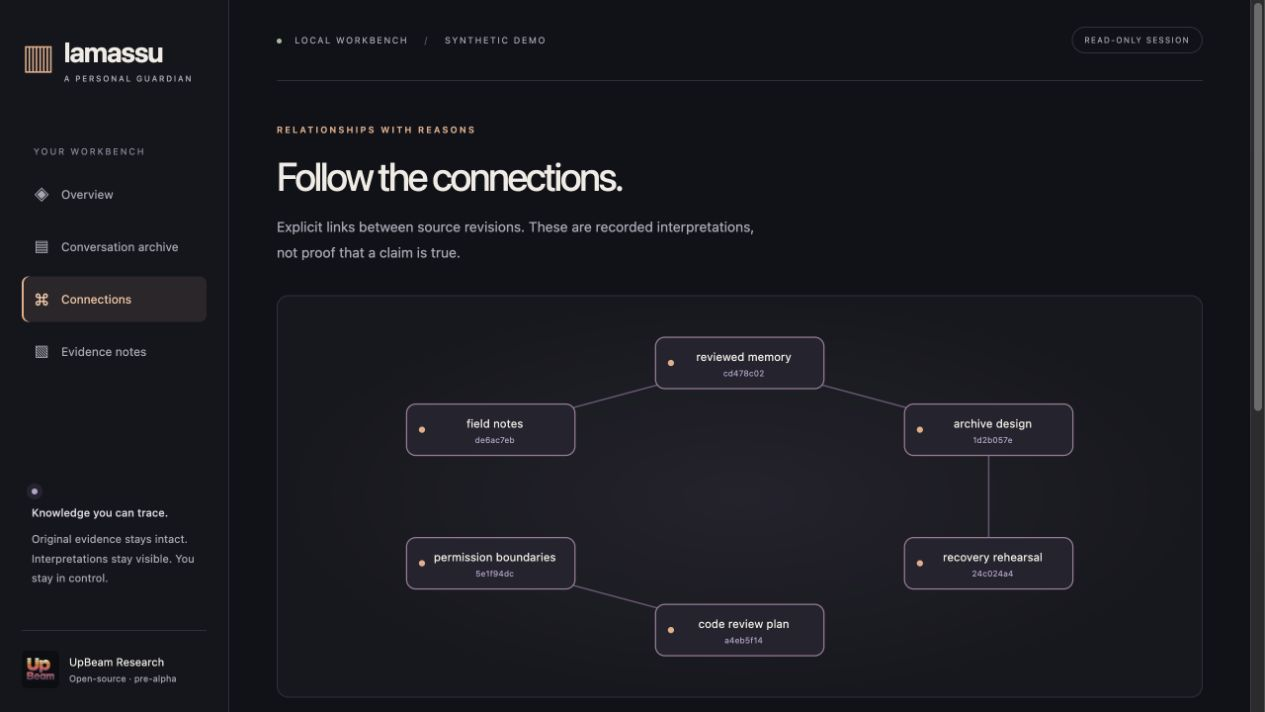
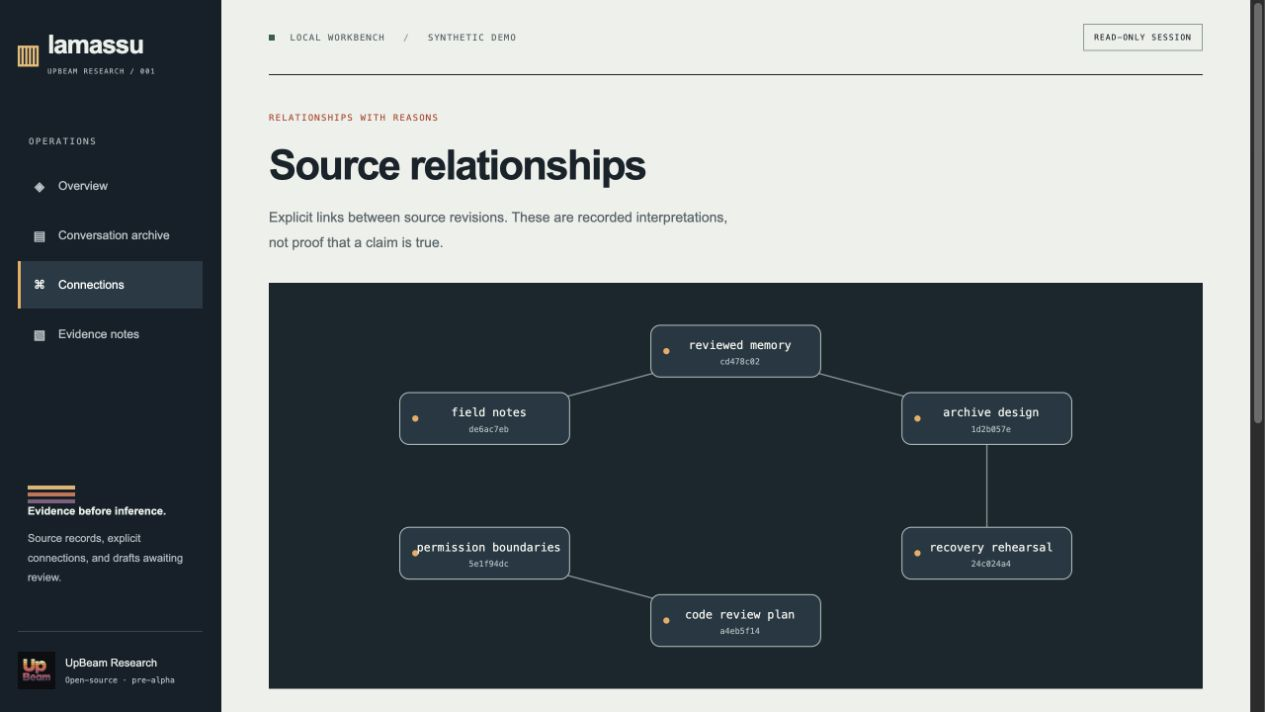
Give the workbench a research-instrument identity and direct operational copy

diff --git a/lamassu/web/style.css b/lamassu/web/style.css
@@ -1,9 +1,229 @@
-:root{--bg:#111218;--panel:#1a1b23;--line:#30303c;--ink:#f1ece4;--muted:#aaa7b3;--accent:#e9ad86;--purple:#b3a2cb;--green:#a6baa2;--sidebar:232px;font-family:Inter,ui-sans-serif,-apple-system,BlinkMacSystemFont,"Segoe UI",sans-serif;color:var(--ink);background:var(--bg);font-synthesis:none}
-*{box-sizing:border-box}body{margin:0}button,input,textarea,select{font:inherit}button{cursor:pointer}button:focus-visible,a:focus-visible{outline:2px solid var(--accent);outline-offset:5px}button:disabled{opacity:.5;cursor:wait}a{color:inherit}button{color:inherit}input,textarea,select{color:var(--ink);background:#14151c;border:1px solid var(--line);border-radius:8px;padding:14px;min-width:0}input:focus,textarea:focus,select:focus{outline:1px solid var(--accent);border-color:var(--accent)}input::placeholder,textarea::placeholder{color:#92909e}.hidden{display:none!important}.shell{display:flex;min-height:100vh}.sidebar{width:var(--sidebar);flex:none;position:fixed;inset:0 auto 0 0;border-right:1px solid var(--line);padding:36px 22px 24px;display:flex;flex-direction:column;background:#15161c}.brand{display:flex;align-items:center;gap:11px;text-decoration:none;font-size:28px;letter-spacing:-1.1px;font-weight:650;margin-bottom:64px}.brand-glyph{font-size:38px;color:var(--accent);font-weight:400;line-height:1}.brand-caption{display:block;font-size:8px;letter-spacing:1.65px;color:var(--muted);margin-top:6px;font-weight:500}.sidebar-label{font-size:9px;letter-spacing:1.8px;color:#8d899b;margin:0 12px 15px}nav{display:grid;gap:7px}.nav-item{background:transparent;border:0;border-radius:7px;padding:13px 10px;text-align:left;font-size:12px;color:var(--muted);display:flex;align-items:center;gap:10px}.nav-item span{font-size:17px;width:20px;text-align:center}.nav-item:hover{background:#20212b;color:var(--ink)}.nav-item.active{background:#2c2629;color:#f4c3a3;box-shadow:inset 2px 0 var(--accent)}.sidebar-note{margin:auto 10px 35px;padding-top:50px;font-size:11px;line-height:1.8;color:var(--muted)}.sidebar-note strong{display:block;color:#d9d3df;font-weight:500;margin-top:9px}.sidebar-note p{margin:7px 0}.small-orb{display:block;width:6px;height:6px;border-radius:50%;background:var(--purple);box-shadow:0 0 0 5px #252330}.steward{border-top:1px solid var(--line);padding-top:20px;display:flex;align-items:center;gap:10px;font-size:11px}.steward img{width:38px;height:38px;border-radius:5px;object-fit:cover}.steward span{display:block;font-size:9px;color:var(--muted);margin-top:5px}main{margin-left:var(--sidebar);padding:0 48px;flex:1;min-width:0;max-width:1700px}.topbar{height:82px;border-bottom:1px solid var(--line);display:flex;align-items:center;justify-content:space-between;font-size:9px;letter-spacing:1.5px;color:var(--muted);gap:15px}.status-dot{display:inline-block;width:5px;height:5px;background:var(--green);border-radius:50%;margin-right:9px}.divider{margin:0 12px;color:#5e5a6a}.read-only{border:1px solid var(--line);border-radius:25px;padding:8px 12px;font-size:8px;letter-spacing:1.2px;white-space:nowrap}.view{padding-top:44px}.eyebrow,.section-kicker{font-size:9px;letter-spacing:2px;font-weight:600;color:var(--accent)}h1{font-size:clamp(40px,4.5vw,68px);line-height:1.08;font-weight:450;letter-spacing:-2.5px;margin:21px 0}h1 span{color:var(--accent)}.intro{font-size:14px;line-height:1.85;color:var(--muted);margin:0 0 30px}.overview-grid{display:grid;grid-template-columns:1.55fr 1fr;gap:20px;margin-top:28px}.search-panel{background:var(--panel);border:1px solid var(--line);border-radius:12px;padding:28px}.search-panel h2{font-size:27px;letter-spacing:-.8px;font-weight:450;margin:17px 0 9px}.search-panel p{color:var(--muted);font-size:12px;line-height:1.8;margin:0 0 23px}.search-form{display:flex;background:#111218;border:1px solid #48404a;border-radius:7px;padding:5px;gap:5px}.search-form input{border:0;background:transparent;padding:11px 9px;font-size:12px;flex:1}.search-form input:focus{outline:none}.search-form:focus-within{outline:1px solid var(--accent)}.search-form button{background:var(--accent);border:0;border-radius:5px;width:39px;flex:none;color:#251f22;font-size:22px}.chips{display:flex;gap:7px;margin-top:15px;flex-wrap:wrap}.chips button{font-size:9px;color:#bcb5c4;background:transparent;border:1px solid #38343f;border-radius:20px;padding:6px 9px}.chips button:hover{border-color:var(--accent);color:var(--accent)}.principle-panel{border:1px solid #3a3340;border-radius:12px;padding:25px 26px;position:relative;overflow:hidden;background:radial-gradient(ellipse at top right,#302739 0,transparent 75%)}.principle-panel .section-kicker{line-height:1.8;letter-spacing:2px;margin-top:11px;color:#d2c2e4}.principle-panel p{font-size:11px;line-height:1.8;color:var(--muted)}.orbit{width:112px;height:90px;position:relative;margin-left:auto;border:1px solid #60516e;border-radius:50%;transform:rotate(-25deg)}.orbit:before{content:"";position:absolute;inset:11px -9px;border:1px solid #443c52;border-radius:50%;transform:rotate(75deg)}.orbit-center{position:absolute;inset:0;display:grid;place-items:center;color:var(--accent);font-size:39px;transform:rotate(25deg)}.orbit-point{position:absolute;background:var(--accent);width:5px;height:5px;border-radius:50%}.point-one{left:2px;top:23px}.point-two{right:4px;bottom:18px}.point-three{top:0;right:36px;background:var(--purple)}.stats{display:grid;grid-template-columns:repeat(4,1fr);border-bottom:1px solid var(--line);margin:22px 0 36px;padding:20px 0 24px}.stat{padding:0 21px;border-right:1px solid var(--line)}.stat:first-child{padding-left:0}.stat:last-child{border:0}.stat strong{font-size:29px;letter-spacing:-1px;font-weight:450}.stat span{display:block;color:var(--muted);font-size:10px;margin-top:8px}.section-heading{display:flex;justify-content:space-between;align-items:center;gap:15px;margin:0 0 17px}.section-heading h2{font-size:17px;letter-spacing:-.4px;font-weight:500;margin:0}.section-heading>span{font-size:8px;letter-spacing:1.5px;color:#898593}.layers{display:grid;grid-template-columns:repeat(3,1fr);gap:18px;margin-bottom:34px}.layers article{border:1px solid var(--line);border-radius:9px;padding:22px 20px;position:relative}.layer-number{font-size:8px;letter-spacing:1.4px;color:var(--accent)}.layers article:nth-child(2) .layer-number{color:var(--purple)}.layers article:nth-child(3) .layer-number{color:var(--green)}.layers h3{font-size:15px;font-weight:500;margin:14px 0 10px}.layers p{font-size:11px;line-height:1.8;color:var(--muted);min-height:60px;margin:0 0 17px}.layer-state{font-size:7px;letter-spacing:1.1px;color:#aaa2b6;border-top:1px solid var(--line);padding-top:12px;display:block}.text-button{border:0;background:none;font-size:10px;color:var(--accent);padding:4px}.recent-records{display:grid;grid-template-columns:repeat(2,1fr);gap:10px}.record-card{border:1px solid var(--line);border-radius:7px;background:transparent;padding:18px;text-align:left;width:100%;display:flex;gap:12px;align-items:center}.record-card:hover{border-color:#746074;background:#1c1b25}.record-icon{width:32px;height:32px;border:1px solid #483c48;border-radius:7px;display:grid;place-items:center;color:var(--accent);flex:none}.record-card h3{font-size:12px;margin:0 0 6px;font-weight:500}.record-card p{margin:0;font-size:9px;color:var(--muted)}.record-card .arrow{margin-left:auto;font-size:18px;color:#81748e}.section-title{font-size:40px;margin:20px 0 17px}.wide{max-width:760px;margin:28px 0 20px}.muted{color:var(--muted);font-size:12px;line-height:1.8}.record-list{display:grid;gap:10px}.search-hit{border:1px solid var(--line);border-radius:8px;padding:20px;background:var(--panel)}.search-hit h3{font-size:14px;margin:0 0 9px}.search-hit p{font-size:13px;line-height:1.85;white-space:pre-wrap;overflow-wrap:anywhere;color:#c6c0ce}.hit-meta{display:flex;gap:10px;align-items:center;color:var(--muted);font-size:10px}.role{color:var(--accent);text-transform:uppercase;font-size:8px;letter-spacing:1.3px}.search-hit button{margin-top:7px}.connection-map{background:radial-gradient(ellipse at center,#24222d,#17181e 70%);border:1px solid var(--line);border-radius:12px;overflow:hidden;margin:30px 0 20px}.connection-map svg{width:100%;height:auto;display:block}.graph-edge{stroke:#675774;stroke-width:1.4;fill:none}.graph-node{fill:#25232e;stroke:#9c7b98;stroke-width:1.2}.graph-dot{fill:var(--accent)}.graph-label{fill:var(--ink);font-size:11px;text-anchor:middle;font-family:inherit}.graph-type{fill:var(--purple);font-size:8px;text-anchor:middle;font-family:inherit}.graph-link{cursor:pointer}.graph-link:hover .graph-node,.graph-link:focus .graph-node{stroke:var(--accent);fill:#37303b}.connection-list{display:grid;gap:10px}.connection-row{background:var(--panel);border:1px solid var(--line);border-radius:8px;padding:18px 20px}.connection-row p{font-size:12px;color:var(--muted);line-height:1.8;margin:9px 0 0}.connection-path{display:flex;align-items:center;flex-wrap:wrap;gap:10px;font-size:12px}.connection-path button{background:none;border:0;color:var(--ink);padding:0;text-align:left}.connection-path button:hover{color:var(--accent)}.relation-tag{color:var(--purple);font-size:9px;border:1px solid #4b3e59;padding:5px 8px;border-radius:20px}.note-layout{display:grid;grid-template-columns:1fr 1fr;gap:24px;margin-top:30px}.note-form{display:grid;align-content:start;gap:12px}.note-form label{font-size:11px;color:#d1c7d9;margin-top:8px}.note-form input,.note-form select,.note-form textarea{width:100%;font-size:12px}.note-form textarea{resize:vertical;line-height:1.8}.primary-button{background:var(--accent);color:#231e24;border:0;border-radius:6px;padding:13px 16px;font-size:12px;font-weight:600}.primary-button:hover{background:#f6c6a6}.note-form .primary-button{margin-top:8px}.fine{font-size:10px;margin:0}.note-preview{background:var(--panel);border:1px solid var(--line);border-radius:10px;padding:25px;min-width:0}.empty-symbol{display:block;font-size:45px;color:#7d697f;margin:55px 0 20px}.note-preview h2{font-weight:450;font-size:26px;letter-spacing:-.6px;line-height:1.4}.note-preview p{font-size:12px;line-height:1.9;color:var(--muted)}.note-preview pre{white-space:pre-wrap;overflow-wrap:anywhere;font:11px/1.8 ui-monospace,monospace;color:#d3c9db;max-height:430px;overflow-y:auto;margin:20px 0}.notice{margin-top:20px;border:1px solid #5f4355;background:#2c2029;border-radius:7px;padding:14px 18px;font-size:12px;line-height:1.8;color:#ebc2cd}footer{display:flex;justify-content:space-between;gap:20px;margin:50px 0 0;border-top:1px solid var(--line);padding:23px 0 28px;color:#8e879a;font-size:9px;line-height:1.8}dialog{background:#191a22;color:var(--ink);border:1px solid #514253;border-radius:13px;max-width:820px;width:calc(100% - 32px);padding:28px;max-height:85vh}dialog::backdrop{background:#08080dc9;backdrop-filter:blur(4px)}.dialog-top{display:flex;justify-content:space-between;align-items:center}.dialog-top button{background:none;border:0;color:var(--muted);font-size:20px;padding:7px}dialog h2{font-size:27px;letter-spacing:-.7px;font-weight:450;margin:19px 0}.record-meta{font:10px/1.9 ui-monospace,monospace;color:#a69aad;border-bottom:1px solid var(--line);padding-bottom:20px;overflow-wrap:anywhere}.message{padding:22px 0;border-bottom:1px solid var(--line)}.message p{white-space:pre-wrap;overflow-wrap:anywhere;font-size:13px;line-height:1.9;margin:10px 0 0;color:#ded6e2}.message .message-at{font:9px ui-monospace,monospace;color:#9b90a7;margin-left:12px}.dialog-bottom{padding-top:22px}.sr-only{position:absolute;width:1px;height:1px;overflow:hidden;clip:rect(0,0,0,0);white-space:nowrap}.empty-state{border:1px dashed #514353;border-radius:10px;padding:36px;line-height:1.8;color:var(--muted)}
-@media(min-width:1450px){main{padding:0 70px}.page-heading{padding-top:10px}.overview-grid{grid-template-columns:1.7fr 1fr}.search-panel{padding:34px}.principle-panel{padding:28px 34px}.layers p{min-height:45px}}
-@media(max-width:1100px){:root{--sidebar:202px}main{padding:0 30px}.sidebar{padding-left:16px;padding-right:16px}.overview-grid{grid-template-columns:1.4fr 1fr}.search-panel{padding:22px}.principle-panel{padding:22px}.chips{gap:5px}.layers{gap:10px}.layers article{padding:18px 14px}.section-heading>span{display:none}.note-layout{gap:16px}.section-title{font-size:33px}}
-@media(max-width:800px){:root{--sidebar:0px}.shell{display:block}.sidebar{position:static;width:100%;padding:16px 20px;border-right:0;border-bottom:1px solid var(--line);display:block}.brand{margin:0 0 17px;font-size:25px}.brand-caption{font-size:7px}.brand-glyph{font-size:30px}.sidebar-label,.sidebar-note,.steward{display:none}nav{display:flex;gap:6px;overflow-x:auto}.nav-item{font-size:10px;white-space:nowrap;padding:10px}.nav-item span{font-size:14px;width:auto}.nav-item.active{box-shadow:inset 0 -2px var(--accent)}main{padding:0 24px}.topbar{height:61px;font-size:8px;letter-spacing:1px}.read-only{font-size:7px;padding:6px 8px}.view{padding-top:32px}h1{font-size:48px}.intro{font-size:13px}.overview-grid{grid-template-columns:1fr 1fr;gap:14px}.principle-panel .section-kicker{font-size:8px}.stats{margin-bottom:28px}.stat{padding:0 14px}.stat strong{font-size:26px}.stat span{font-size:9px}.layers h3{font-size:14px}.layers p{font-size:11px;min-height:80px}.note-layout{grid-template-columns:1fr}.section-title{font-size:36px}.note-preview{min-height:260px}.empty-symbol{margin-top:25px}footer{font-size:8px}}
-@media(max-width:520px){main{padding:0 18px}.sidebar{padding:16px 12px}.brand{margin-left:6px}.nav-item{padding:9px 8px;gap:6px}.nav-item span{display:none}.topbar{font-size:7px}.divider{margin:0 5px}.read-only{font-size:6px;padding:6px}.view{padding-top:28px}h1{font-size:43px;letter-spacing:-1.8px}.eyebrow{font-size:8px;letter-spacing:1.5px}.intro{font-size:12px}.desktop-break{display:none}.overview-grid{grid-template-columns:1fr}.principle-panel{display:grid;grid-template-columns:1fr auto;align-items:center;gap:3px 15px}.principle-panel .orbit{grid-column:2;grid-row:1/3;width:96px;height:72px}.principle-panel .section-kicker{grid-row:1;margin-top:0}.principle-panel p{grid-column:1;margin:5px 0 0;font-size:10px}.stats{gap:0}.stat{padding:0 10px}.stat strong{font-size:23px}.stat span{font-size:8px;line-height:1.6}.layers{grid-template-columns:1fr}.layers article{padding:20px}.layers p{min-height:0}.layers h3{font-size:16px}.layer-state{font-size:7px}.section-heading h2{font-size:15px}.recent-records{grid-template-columns:1fr}.section-title{font-size:32px;letter-spacing:-1px}.connection-map{margin-top:23px}.connection-path{font-size:11px}.connection-row{padding:15px}.connection-row p{font-size:11px}footer{display:block;margin-top:35px}footer span{display:block;margin-bottom:4px}dialog{padding:20px}.record-meta{font-size:9px}}
-@media(prefers-reduced-motion:reduce){*{scroll-behavior:auto!important}}
-
-nav{scrollbar-width:none}nav::-webkit-scrollbar{display:none}.skip-link{position:absolute;left:250px;top:-80px;z-index:20;background:var(--accent);color:#201b20;padding:12px 18px;border-radius:6px}.skip-link:focus{top:12px}@media(max-width:800px){.skip-link{left:15px}}
+:root {
+  --bg: #edf0eb;
+  --panel: #f8faf5;
+  --ink: #18232b;
+  --muted: #56646a;
+  --line: #bdc7c6;
+  --accent: #b63c28;
+  --purple: #744c70;
+  --green: #315e4e;
+  --sidebar: 224px;
+  --mono: "SFMono-Regular", Consolas, "Liberation Mono", monospace;
+  font-family: Arial, Helvetica, sans-serif;
+  color: var(--ink);
+  background: var(--bg);
+  font-synthesis: none;
+}
+* { box-sizing: border-box; }
+body { margin: 0; }
+button, input, textarea, select { font: inherit; }
+button, a { -webkit-tap-highlight-color: transparent; }
+button { cursor: pointer; color: inherit; }
+a { color: inherit; }
+button:focus-visible, a:focus-visible { outline: 2px solid var(--accent); outline-offset: 4px; }
+button:disabled { opacity: .45; cursor: wait; }
+input, textarea, select { color: var(--ink); background: var(--panel); border: 1px solid var(--line); border-radius: 0; padding: 14px; min-width: 0; }
+input:focus, textarea:focus, select:focus { outline: 2px solid var(--ink); outline-offset: -2px; }
+input::placeholder, textarea::placeholder { color: #657176; }
+.hidden { display: none !important; }
+.shell { display: flex; min-height: 100vh; }
+.sidebar { width: var(--sidebar); position: fixed; inset: 0 auto 0 0; padding: 30px 18px 23px; display: flex; flex-direction: column; background: #142029; color: #eaf0e9; border-right: 1px solid #142029; }
+.brand { display: flex; align-items: center; gap: 10px; text-decoration: none; font-size: 26px; font-weight: 800; letter-spacing: -1px; margin-bottom: 60px; }
+.brand-glyph { font-family: var(--mono); font-size: 35px; color: #edbb71; font-weight: 400; }
+.brand-caption { display: block; font: 7px/1.5 var(--mono); letter-spacing: 1px; color: #a9b9ba; margin-top: 7px; }
+.sidebar-label { font: 9px var(--mono); color: #a3b3b7; letter-spacing: 1.5px; margin: 0 11px 16px; }
+nav { display: grid; gap: 2px; scrollbar-width: none; }
+nav::-webkit-scrollbar { display: none; }
+.nav-item { border: 0; background: none; padding: 14px 10px; text-align: left; display: flex; gap: 10px; align-items: center; color: #b7c5c9; font-size: 12px; border-left: 3px solid transparent; }
+.nav-item span { width: 18px; font: 17px var(--mono); text-align: center; }
+.nav-item:hover { background: #21323c; color: white; }
+.nav-item.active { background: #263a44; color: #fff; border-left-color: #efaa5b; }
+.sidebar-note { margin: auto 10px 36px; padding-top: 50px; font-size: 11px; line-height: 1.8; color: #abbcc1; }
+.sidebar-note strong { display: block; color: #e7eee8; font-weight: 600; margin-top: 12px; }
+.sidebar-note p { margin: 8px 0; }
+.small-orb { display: block; width: 48px; height: 4px; background: #e3b36a; box-shadow: 0 7px #cc7251, 0 14px #855d7d; }
+.steward { border-top: 1px solid #34444b; padding-top: 20px; display: flex; align-items: center; gap: 10px; font-size: 11px; }
+.steward img { width: 38px; height: 38px; object-fit: cover; }
+.steward span { display: block; font: 8px var(--mono); color: #abbcc1; margin-top: 6px; }
+main { margin-left: var(--sidebar); padding: 0 48px; min-width: 0; flex: 1; max-width: 1700px; }
+.topbar { height: 76px; border-bottom: 1px solid var(--ink); display: flex; align-items: center; justify-content: space-between; gap: 15px; font: 9px var(--mono); letter-spacing: 1px; color: var(--muted); }
+.status-dot { display: inline-block; width: 6px; height: 6px; background: var(--green); margin-right: 9px; }
+.divider { margin: 0 12px; color: #8c989b; }
+.read-only { border: 1px solid #8a9a9d; padding: 8px 10px; font-size: 8px; white-space: nowrap; color: var(--ink); }
+.view { padding-top: 36px; }
+.eyebrow, .section-kicker { font: 9px/1.6 var(--mono); letter-spacing: 1.2px; color: var(--accent); }
+h1 { font-size: clamp(37px, 4.7vw, 68px); font-weight: 800; letter-spacing: -2.7px; line-height: 1.03; margin: 18px 0; }
+.heading-index { font: 20px var(--mono); letter-spacing: -1px; color: #859496; margin-left: 22px; white-space: nowrap; }
+.intro { font-size: 14px; line-height: 1.8; color: var(--muted); margin: 0 0 27px; }
+.page-heading { border-left: 5px solid var(--ink); padding-left: 21px; margin-bottom: 30px; }
+.page-heading .intro { margin-bottom: 0; }
+.overview-grid { display: grid; grid-template-columns: 1.6fr 1fr; border: 1px solid var(--ink); }
+.search-panel { background: var(--panel); padding: 26px; }
+h2 { font-weight: 700; }
+.search-panel h2 { font-size: 25px; letter-spacing: -.8px; margin: 13px 0 9px; }
+.search-panel p { color: var(--muted); font-size: 12px; line-height: 1.8; margin: 0 0 22px; }
+.search-form { display: flex; border: 1px solid var(--ink); background: white; padding: 4px; gap: 5px; }
+.search-form:focus-within { outline: 2px solid var(--accent); outline-offset: 2px; }
+.search-form input { flex: 1; border: 0; background: transparent; font: 12px var(--mono); padding: 12px 9px; }
+.search-form input:focus { outline: 0; }
+.search-form button { width: 42px; flex: none; border: 0; background: var(--ink); color: white; font-size: 22px; }
+.search-form button:hover { background: var(--accent); }
+.chips { display: flex; flex-wrap: wrap; gap: 14px; margin-top: 15px; }
+.chips button { background: none; border: 0; border-bottom: 1px solid #b8c3c1; padding: 4px 0; font: 9px var(--mono); color: var(--muted); }
+.chips button:hover { color: var(--accent); border-color: var(--accent); }
+.principle-panel { border-left: 1px solid var(--ink); padding: 26px; background: #e2e7e0; }
+.authority-ledger { margin: 17px 0 0; font: 10px/1.5 var(--mono); }
+.authority-ledger div { display: flex; justify-content: space-between; gap: 12px; padding: 9px 0; border-bottom: 1px solid #bdc8bf; }
+.authority-ledger dt { color: var(--muted); }
+.authority-ledger dd { margin: 0; text-align: right; color: var(--ink); }
+.principle-panel p { font-size: 10px; color: var(--muted); line-height: 1.7; margin: 14px 0 0; }
+.stats { display: grid; grid-template-columns: repeat(4, 1fr); border: 1px solid var(--ink); border-top: 0; margin: 0 0 33px; }
+.stat { border-right: 1px solid var(--line); padding: 18px 22px; }
+.stat:last-child { border: 0; }
+.stat strong { font: 32px var(--mono); letter-spacing: -2px; }
+.stat span { display: block; font: 9px var(--mono); color: var(--muted); margin-top: 7px; }
+.section-heading { display: flex; justify-content: space-between; align-items: center; gap: 15px; margin: 0 0 15px; }
+.section-heading h2 { font-size: 15px; margin: 0; letter-spacing: -.2px; }
+.section-heading > span { font: 8px var(--mono); color: var(--muted); letter-spacing: .6px; }
+.layers { display: grid; grid-template-columns: repeat(3, 1fr); border-top: 2px solid var(--ink); border-bottom: 1px solid var(--line); margin-bottom: 31px; }
+.layers article { padding: 21px 20px 18px; border-right: 1px solid var(--line); }
+.layers article:first-child { padding-left: 0; }
+.layers article:last-child { border-right: 0; }
+.layer-number { font: 9px var(--mono); color: var(--accent); }
+.layers article:nth-child(2) .layer-number { color: var(--purple); }
+.layers article:nth-child(3) .layer-number { color: var(--green); }
+.layers h3 { font-size: 15px; margin: 14px 0 9px; }
+.layers p { font-size: 11px; line-height: 1.8; color: var(--muted); min-height: 60px; margin: 0 0 15px; }
+.layer-state { font: 7px var(--mono); letter-spacing: .6px; color: var(--muted); }
+.text-button { border: 0; background: none; font: 10px var(--mono); color: var(--accent); padding: 5px 0; }
+.recent-records { display: grid; grid-template-columns: repeat(2, 1fr); border-top: 1px solid var(--line); }
+.record-card { width: 100%; border: 0; border-bottom: 1px solid var(--line); background: none; text-align: left; display: flex; align-items: center; gap: 12px; padding: 17px 12px; }
+.record-card:hover { background: #dee5de; }
+.record-icon { font: 22px var(--mono); color: var(--muted); width: 26px; flex: none; }
+.record-card h3 { font-size: 12px; margin: 0 0 6px; font-weight: 600; }
+.record-card p { margin: 0; font: 8px var(--mono); color: var(--muted); }
+.record-card .arrow { margin-left: auto; font-size: 18px; color: var(--accent); }
+.section-title { font-size: 42px; letter-spacing: -1.7px; margin: 19px 0; }
+.wide { max-width: 760px; margin: 28px 0 20px; }
+.muted { color: var(--muted); font-size: 12px; line-height: 1.8; }
+.record-list { display: grid; }
+.search-hit { border-top: 1px solid var(--ink); padding: 21px 0; }
+.search-hit h3 { font-size: 14px; margin: 0 0 10px; }
+.search-hit p { font-size: 13px; line-height: 1.85; white-space: pre-wrap; overflow-wrap: anywhere; }
+.hit-meta { display: flex; align-items: center; gap: 12px; font: 9px var(--mono); color: var(--muted); }
+.role { font: 8px var(--mono); text-transform: uppercase; letter-spacing: 1px; color: var(--accent); }
+.connection-map { border: 1px solid var(--ink); background: #18262e; margin: 28px 0 20px; overflow: hidden; }
+.connection-map svg { width: 100%; height: auto; display: block; }
+.graph-edge { stroke: #829195; stroke-width: 1.3; fill: none; }
+.graph-node { fill: #243842; stroke: #acbeba; stroke-width: 1; }
+.graph-dot { fill: #efaa5b; }
+.graph-label { fill: #f2f4ec; font: 11px var(--mono); text-anchor: middle; }
+.graph-type { fill: #a6babd; font: 8px var(--mono); text-anchor: middle; }
+.graph-link { cursor: pointer; }
+.graph-link:hover .graph-node, .graph-link:focus .graph-node { fill: #3c5057; stroke: #efaa5b; }
+.connection-list { display: grid; }
+.connection-row { border-bottom: 1px solid var(--line); padding: 20px 0; }
+.connection-path { display: flex; align-items: center; flex-wrap: wrap; gap: 12px; font-size: 12px; }
+.connection-path button { background: none; border: 0; padding: 0; font-weight: 600; text-align: left; }
+.connection-path button:hover { color: var(--accent); }
+.relation-tag { border: 1px solid #b5a9b4; padding: 5px 8px; color: var(--purple); font: 9px var(--mono); }
+.connection-row p { margin: 10px 0 0; font-size: 12px; line-height: 1.8; color: var(--muted); }
+.note-layout { display: grid; grid-template-columns: 1fr 1fr; gap: 27px; margin-top: 30px; }
+.note-form { display: grid; align-content: start; gap: 12px; }
+.note-form label { font: 10px var(--mono); margin-top: 8px; }
+.note-form input, .note-form select, .note-form textarea { width: 100%; font-size: 12px; }
+.note-form textarea { resize: vertical; line-height: 1.8; }
+.primary-button { background: var(--ink); color: #f4f6ef; border: 0; padding: 14px 17px; font: 11px var(--mono); }
+.primary-button:hover { background: var(--accent); }
+.note-form .primary-button { margin-top: 9px; }
+.fine { font: 9px/1.8 var(--mono); margin: 0; }
+.note-preview { border: 1px solid var(--line); background: var(--panel); padding: 25px; min-width: 0; }
+.empty-symbol { display: block; font: 44px var(--mono); color: #8d9c9c; margin: 45px 0 22px; }
+.note-preview h2 { font-size: 24px; letter-spacing: -.7px; }
+.note-preview p { color: var(--muted); font-size: 12px; line-height: 1.9; }
+.note-preview pre { font: 11px/1.8 var(--mono); white-space: pre-wrap; overflow-wrap: anywhere; max-height: 430px; overflow-y: auto; margin: 20px 0; }
+.notice { margin-top: 20px; border-left: 4px solid var(--accent); background: #f5e4d7; padding: 14px 18px; font-size: 12px; line-height: 1.8; }
+footer { display: flex; justify-content: space-between; gap: 15px; border-top: 1px solid var(--ink); margin-top: 40px; padding: 22px 0 28px; font: 8px/1.8 var(--mono); color: var(--muted); }
+dialog { background: var(--panel); color: var(--ink); border: 1px solid var(--ink); padding: 28px; width: calc(100% - 32px); max-width: 820px; max-height: 85vh; }
+dialog::backdrop { background: #101c27cc; }
+.dialog-top { display: flex; justify-content: space-between; align-items: center; }
+.dialog-top button { background: none; border: 0; color: var(--muted); font-size: 21px; padding: 7px; }
+dialog h2 { font-size: 27px; letter-spacing: -.7px; margin: 18px 0; }
+.record-meta { font: 10px/1.9 var(--mono); color: var(--muted); border-bottom: 1px solid var(--line); padding-bottom: 20px; overflow-wrap: anywhere; }
+.message { padding: 22px 0; border-bottom: 1px solid var(--line); }
+.message p { font-size: 13px; line-height: 1.9; white-space: pre-wrap; overflow-wrap: anywhere; margin: 10px 0 0; }
+.message-at { font: 9px var(--mono); color: var(--muted); margin-left: 12px; }
+.dialog-bottom { padding-top: 22px; }
+.sr-only { position: absolute; width: 1px; height: 1px; overflow: hidden; clip: rect(0,0,0,0); white-space: nowrap; }
+.empty-state { padding: 30px; font-size: 12px; line-height: 1.8; color: var(--muted); border: 1px dashed var(--line); }
+.skip-link { position: absolute; left: 240px; top: -80px; z-index: 20; background: var(--ink); color: white; padding: 12px 18px; }
+.skip-link:focus { top: 12px; }
+@media (max-width: 1100px) {
+  :root { --sidebar: 200px; }
+  main { padding: 0 28px; }
+  .sidebar { padding-left: 14px; padding-right: 14px; }
+  .search-panel, .principle-panel { padding: 22px; }
+  .section-heading > span { display: none; }
+  .layers article { padding-left: 14px; padding-right: 14px; }
+  .heading-index { font-size: 16px; margin-left: 12px; }
+}
+@media (max-width: 800px) {
+  :root { --sidebar: 0px; }
+  .shell { display: block; }
+  .sidebar { position: static; width: 100%; padding: 18px; }
+  .brand { margin: 0 0 15px; font-size: 25px; }
+  .sidebar-label, .sidebar-note, .steward { display: none; }
+  nav { display: flex; overflow-x: auto; gap: 6px; }
+  .nav-item { white-space: nowrap; padding: 11px 9px; font-size: 10px; border-left: 0; border-bottom: 2px solid transparent; }
+  .nav-item.active { border-left: 0; border-bottom-color: #efaa5b; }
+  .nav-item span { font-size: 13px; width: auto; }
+  main { padding: 0 24px; }
+  .topbar { height: 59px; font-size: 8px; }
+  h1 { font-size: 46px; letter-spacing: -2px; }
+  .view { padding-top: 29px; }
+  .intro { font-size: 13px; }
+  .overview-grid { grid-template-columns: 1.4fr 1fr; }
+  .authority-ledger { font-size: 9px; }
+  .stat { padding: 17px 14px; }
+  .stat strong { font-size: 27px; }
+  .stat span { font-size: 8px; }
+  .layers p { min-height: 80px; }
+  .note-layout { grid-template-columns: 1fr; }
+  .section-title { font-size: 35px; }
+  .skip-link { left: 12px; }
+}
+@media (max-width: 520px) {
+  .sidebar { padding: 15px 12px; }
+  .brand { margin-left: 6px; }
+  .nav-item { padding: 10px 8px; }
+  .nav-item span { display: none; }
+  main { padding: 0 17px; }
+  .topbar { font-size: 7px; gap: 7px; }
+  .divider { margin: 0 4px; }
+  .read-only { font-size: 6px; padding: 6px; }
+  .page-heading { padding-left: 13px; border-left-width: 4px; }
+  h1 { font-size: 37px; letter-spacing: -1.6px; }
+  .heading-index { font-size: 13px; margin-left: 8px; }
+  .eyebrow { font-size: 8px; letter-spacing: .5px; }
+  .intro { font-size: 12px; }
+  .desktop-break { display: none; }
+  .overview-grid { grid-template-columns: 1fr; }
+  .search-panel, .principle-panel { padding: 21px; }
+  .principle-panel { border-left: 0; border-top: 1px solid var(--ink); }
+  .authority-ledger { font-size: 10px; }
+  .stat { padding: 15px 8px; }
+  .stat strong { font-size: 24px; }
+  .stat span { font-size: 7px; line-height: 1.6; }
+  .layers { grid-template-columns: 1fr; }
+  .layers article, .layers article:first-child { padding: 19px 0; border-right: 0; border-bottom: 1px solid var(--line); }
+  .layers article:last-child { border-bottom: 0; }
+  .layers p { min-height: 0; margin-bottom: 11px; }
+  .recent-records { grid-template-columns: 1fr; }
+  .section-heading h2 { font-size: 14px; }
+  .section-title { font-size: 31px; letter-spacing: -1px; }
+  .connection-path { font-size: 11px; }
+  footer { display: block; font-size: 7px; }
+  footer span { display: block; margin-bottom: 5px; }
+  dialog { padding: 19px; }
+  .record-meta { font-size: 9px; }
+}

diff --git a/lamassu/web/index.html b/lamassu/web/index.html
@@ -3,8 +3,8 @@
 <head>
   <meta charset="utf-8">
   <meta name="viewport" content="width=device-width,initial-scale=1">
-  <meta name="color-scheme" content="dark">
-  <title>Lamassu — your knowledge, held together</title>
+  <meta name="color-scheme" content="light">
+  <title>Lamassu / Archive control</title>
   <link rel="icon" href="/upbeam.jpg">
   <link rel="stylesheet" href="/style.css">
   <script src="/app.js" defer></script>
@@ -13,31 +13,31 @@
   <a class="skip-link" href="#main">Skip to content</a>
   <div class="shell">
     <aside class="sidebar">
-      <a class="brand" href="/" aria-label="Lamassu home"><span class="brand-glyph" aria-hidden="true">▥</span><span>lamassu<span class="brand-caption">A PERSONAL GUARDIAN</span></span></a>
-      <div class="sidebar-label">YOUR WORKBENCH</div>
+      <a class="brand" href="/" aria-label="Lamassu home"><span class="brand-glyph" aria-hidden="true">▥</span><span>lamassu<span class="brand-caption">UPBEAM RESEARCH / 001</span></span></a>
+      <div class="sidebar-label">OPERATIONS</div>
       <nav aria-label="Main navigation">
         <button class="nav-item active" data-view="overview"><span aria-hidden="true">◈</span> Overview</button>
         <button class="nav-item" data-view="archive"><span aria-hidden="true">▤</span> Conversation archive</button>
         <button class="nav-item" data-view="connections"><span aria-hidden="true">⌘</span> Connections</button>
         <button class="nav-item" data-view="notes"><span aria-hidden="true">▧</span> Evidence notes</button>
       </nav>
-      <div class="sidebar-note"><span class="small-orb" aria-hidden="true"></span><strong>Knowledge you can trace.</strong><p>Original evidence stays intact. Interpretations stay visible. You stay in control.</p></div>
+      <div class="sidebar-note"><span class="small-orb" aria-hidden="true"></span><strong>Evidence before inference.</strong><p>Source records, explicit connections, and drafts awaiting review.</p></div>
       <div class="steward"><img src="/upbeam.jpg" alt="UpBeam"><div>UpBeam Research<span>Open-source · pre-alpha</span></div></div>
     </aside>
     <main id="main" tabindex="-1">
       <header class="topbar"><div><span class="status-dot"></span> LOCAL WORKBENCH <span class="divider">/</span> <span id="dataset-label">CONNECTING</span></div><span class="read-only">READ-ONLY SESSION</span></header>
       <div id="notice" class="notice hidden" role="status"></div>
       <section id="overview" class="view">
-        <div class="page-heading"><div class="eyebrow">CONTINUITY, BY DESIGN</div><h1>Your knowledge.<br><span>Held together.</span></h1><p class="intro">Conversations become evidence. Connections become understanding.<br class="desktop-break"> The useful things stay with you.</p></div>
-        <div class="overview-grid"><article class="search-panel"><div class="section-kicker">START WITH A QUESTION</div><h2>Find the thread.</h2><p>Look across your archived conversations, then follow the evidence.</p><form id="hero-search" class="search-form"><label class="sr-only" for="hero-query">Search conversation text</label><input id="hero-query" placeholder="Try “offline”, “permissions”, or “backup”" maxlength="1000" required><button type="submit" aria-label="Search archive">↗</button></form><div class="chips"><button data-search="offline">Offline continuity</button><button data-search="evidence">Original evidence</button><button data-search="worker">Worker boundaries</button></div></article><article class="principle-panel"><div class="orbit" aria-hidden="true"><div class="orbit-center">◈</div><span class="orbit-point point-one"></span><span class="orbit-point point-two"></span><span class="orbit-point point-three"></span></div><div class="section-kicker">A LONG MEMORY.<br>BOUNDED AUTHORITY.</div><p>This workbench reads and connects.<br>It does not act on your behalf.</p></article></div>
+        <div class="page-heading"><div class="eyebrow">LAMASSU / PERSONAL KNOWLEDGE SYSTEM</div><h1>Archive control<span class="heading-index">/ 01</span></h1><p class="intro">Search conversations. Inspect sources. Record connections.<br class="desktop-break"> Prepare notes for your own archive.</p></div>
+        <div class="overview-grid"><article class="search-panel"><div class="section-kicker">01 / RETRIEVAL</div><h2>Search the record.</h2><p>Exact text search across every retained conversation revision.</p><form id="hero-search" class="search-form"><label class="sr-only" for="hero-query">Search conversation text</label><input id="hero-query" placeholder="Try “offline”, “permissions”, or “backup”" maxlength="1000" required><button type="submit" aria-label="Search archive">↗</button></form><div class="chips"><button data-search="offline">Offline continuity</button><button data-search="evidence">Original evidence</button><button data-search="worker">Worker boundaries</button></div></article><article class="principle-panel"><div class="section-kicker">SESSION AUTHORITY</div><dl class="authority-ledger"><div><dt>Source archive</dt><dd>Read</dd></div><div><dt>Connections</dt><dd>Inspect</dd></div><div><dt>Evidence notes</dt><dd>Download drafts</dd></div><div><dt>Autonomous actions</dt><dd>Disabled</dd></div></dl><p>Changes to your archive require a separate, explicit operation.</p></article></div>
         <div id="stats" class="stats" aria-label="Archive statistics"></div>
-        <section class="layers-section"><div class="section-heading"><h2>Three layers. One continuous story.</h2><span>THE MEMORY MODEL</span></div><div class="layers"><article><span class="layer-number">01 / PRESERVE</span><h3>Original archive</h3><p>The conversations as they happened, with source bytes, roles, and revisions.</p><span class="layer-state">AVAILABLE NOW</span></article><article><span class="layer-number">02 / CONNECT</span><h3>Working understanding</h3><p>Explicit relationships link the evidence. Automated interpretation comes later.</p><span class="layer-state">EXPLICIT LINKS ONLY</span></article><article><span class="layer-number">03 / CARRY FORWARD</span><h3>Curated knowledge</h3><p>Source-backed drafts for your own Markdown vault. You decide what belongs.</p><span class="layer-state">DRAFT & REVIEW</span></article></div></section>
-        <section><div class="section-heading"><h2>Threads worth returning to</h2><button class="text-button" data-view="archive">View archive ↗</button></div><div id="recent-records" class="recent-records"></div></section>
+        <section class="layers-section"><div class="section-heading"><h2>Storage model</h2><span>ARCHIVE → CONNECTIONS → NOTES</span></div><div class="layers"><article><span class="layer-number">01 / PRESERVE</span><h3>Original archive</h3><p>The conversations as they happened, with source bytes, roles, and revisions.</p><span class="layer-state">AVAILABLE NOW</span></article><article><span class="layer-number">02 / CONNECT</span><h3>Working understanding</h3><p>Explicit relationships link the evidence. Automated interpretation comes later.</p><span class="layer-state">EXPLICIT LINKS ONLY</span></article><article><span class="layer-number">03 / CARRY FORWARD</span><h3>Curated knowledge</h3><p>Source-backed drafts for your own Markdown vault. You decide what belongs.</p><span class="layer-state">DRAFT & REVIEW</span></article></div></section>
+        <section><div class="section-heading"><h2>Recent source records</h2><button class="text-button" data-view="archive">View archive ↗</button></div><div id="recent-records" class="recent-records"></div></section>
       </section>
       <section id="archive" class="view hidden"><div class="eyebrow">ORIGINAL EVIDENCE</div><h1 class="section-title">Conversation archive</h1><p class="intro">All retained revisions. Every message keeps its speaker and source.</p><form id="archive-search" class="search-form wide"><label class="sr-only" for="archive-query">Search message text</label><input id="archive-query" placeholder="Search the archive…" maxlength="1000"><button type="submit" aria-label="Search">↗</button></form><p id="result-label" class="muted"></p><div id="archive-results" class="record-list"></div></section>
-      <section id="connections" class="view hidden"><div class="eyebrow">RELATIONSHIPS WITH REASONS</div><h1 class="section-title">Follow the connections.</h1><p class="intro">Explicit links between source revisions. These are recorded interpretations,<br class="desktop-break"> not proof that a claim is true.</p><div id="connection-map" class="connection-map" aria-label="Conversation relationship map"></div><div id="connection-list" class="connection-list"></div></section>
-      <section id="notes" class="view hidden"><div class="eyebrow">FROM EVIDENCE TO UNDERSTANDING</div><h1 class="section-title">Something worth keeping.</h1><p class="intro">Write your proposed understanding and attach a source. Download a draft<br class="desktop-break"> to review in your Markdown vault. Nothing is published automatically.</p><div class="note-layout"><form id="note-form" class="note-form"><label for="note-source">Source conversation</label><select id="note-source" required></select><label for="note-title">Note title</label><input id="note-title" maxlength="160" placeholder="A principle worth carrying forward" required><label for="note-statement">Your proposed understanding</label><textarea id="note-statement" rows="7" maxlength="12000" placeholder="What have you learned, decided, or changed your mind about?" required></textarea><button class="primary-button" type="submit">Prepare evidence note ↗</button><p class="muted fine">Explicitly authored by you. No model-generated synthesis.</p></form><article class="note-preview"><div class="section-kicker">DRAFT PREVIEW</div><div id="note-empty"><span class="empty-symbol" aria-hidden="true">▧</span><h2>Keep the meaning.<br>Keep the evidence.</h2><p>A draft belongs in an inbox before it belongs in your long-term memory.</p></div><pre id="note-content" class="hidden"></pre><button id="download-note" class="primary-button hidden">Download Markdown draft ↓</button></article></div></section>
-      <footer><span>Lamassu · UpBeam Research</span><span>Preserve evidence. Review understanding. Retain control.</span></footer>
+      <section id="connections" class="view hidden"><div class="eyebrow">RELATIONSHIPS WITH REASONS</div><h1 class="section-title">Source relationships</h1><p class="intro">Explicit links between source revisions. These are recorded interpretations,<br class="desktop-break"> not proof that a claim is true.</p><div id="connection-map" class="connection-map" aria-label="Conversation relationship map"></div><div id="connection-list" class="connection-list"></div></section>
+      <section id="notes" class="view hidden"><div class="eyebrow">03 / REVIEW QUEUE</div><h1 class="section-title">Draft an evidence note</h1><p class="intro">Write your proposed understanding and attach a source. Download a draft<br class="desktop-break"> to review in your Markdown vault. Nothing is published automatically.</p><div class="note-layout"><form id="note-form" class="note-form"><label for="note-source">Source conversation</label><select id="note-source" required></select><label for="note-title">Note title</label><input id="note-title" maxlength="160" placeholder="Name the decision, finding, or question" required><label for="note-statement">Your proposed understanding</label><textarea id="note-statement" rows="7" maxlength="12000" placeholder="What have you learned, decided, or changed your mind about?" required></textarea><button class="primary-button" type="submit">Prepare evidence note ↗</button><p class="muted fine">Explicitly authored by you. No model-generated synthesis.</p></form><article class="note-preview"><div class="section-kicker">DRAFT PREVIEW</div><div id="note-empty"><span class="empty-symbol" aria-hidden="true">▧</span><h2>No draft prepared.</h2><p>Select a source and write your interpretation. The draft will include the original evidence and a review checklist.</p></div><pre id="note-content" class="hidden"></pre><button id="download-note" class="primary-button hidden">Download Markdown draft ↓</button></article></div></section>
+      <footer><span>Lamassu · UpBeam Research</span><span>LOCAL ARCHIVE / EXPLICIT AUTHORITY / PRE-ALPHA</span></footer>
     </main>
   </div>
   <dialog id="record-dialog"><div class="dialog-top"><span class="eyebrow">SOURCE REVISION</span><button id="close-dialog" aria-label="Close conversation">✕</button></div><h2 id="record-title"></h2><div id="record-meta" class="record-meta"></div><div id="record-messages"></div><div class="dialog-bottom"><button id="note-from-record" class="primary-button">Create an evidence note ↗</button></div></dialog>

diff --git a/README.md b/README.md
@@ -2,7 +2,7 @@
 
 # Lamassu
 
-### Your knowledge. Held together.
+### An independent archive for personal AI.
 
 A personal guardian with a long memory and bounded authority. An open-source research project by **[UpBeam Research](https://research.upbeam.net)**, a subdivision of **UpBeam OY**.
 
